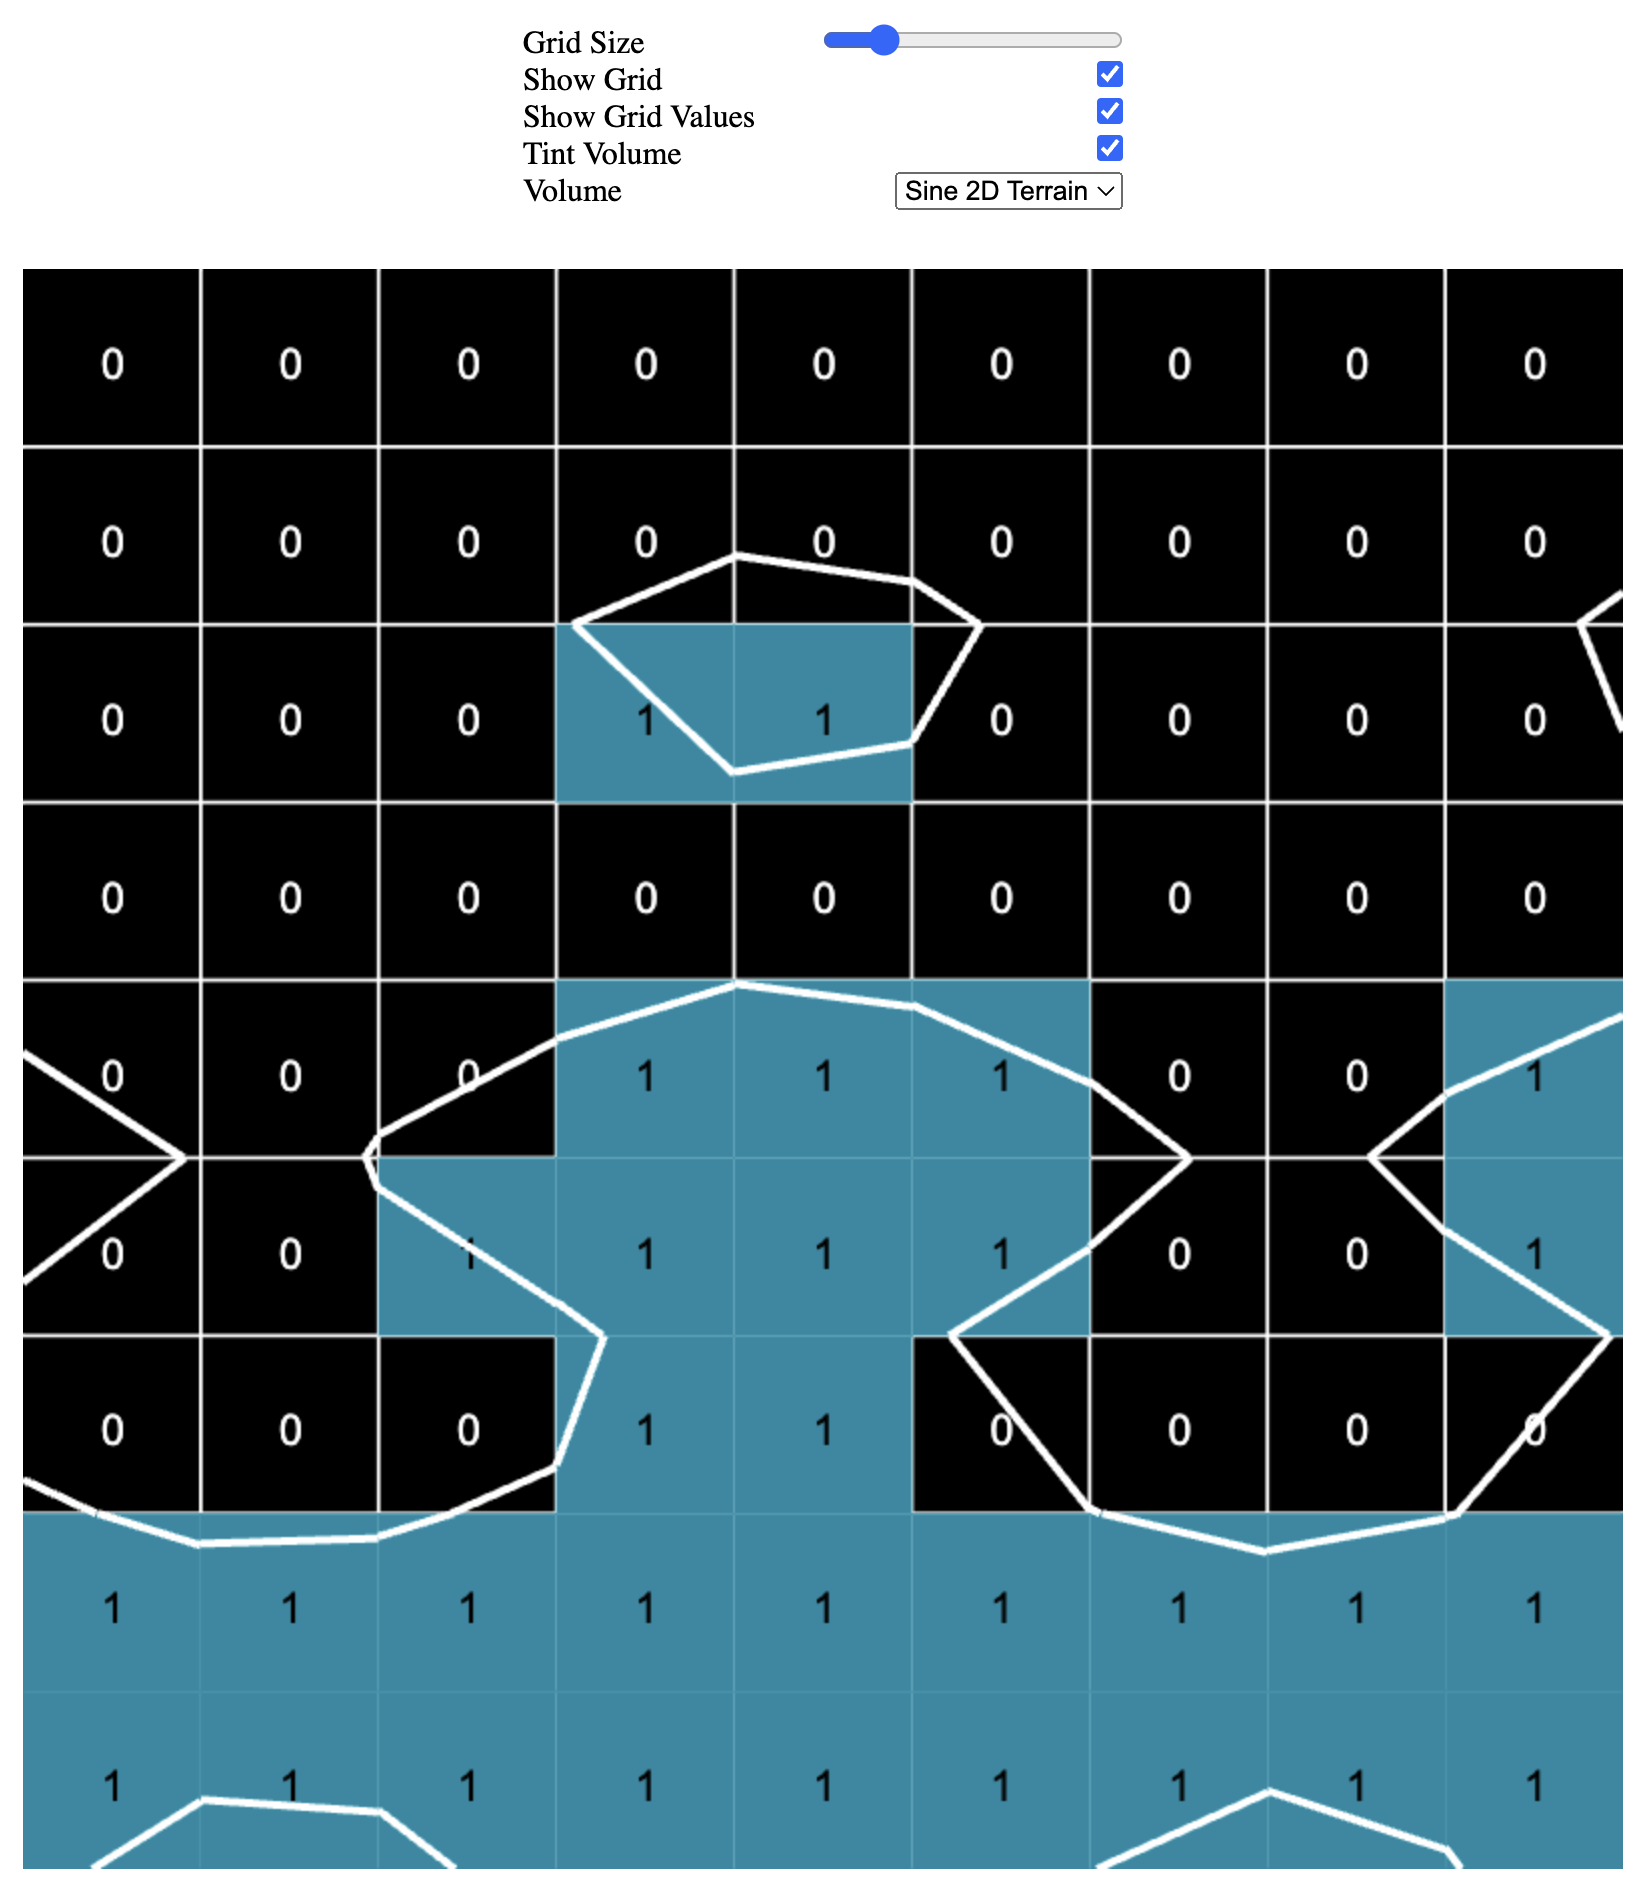
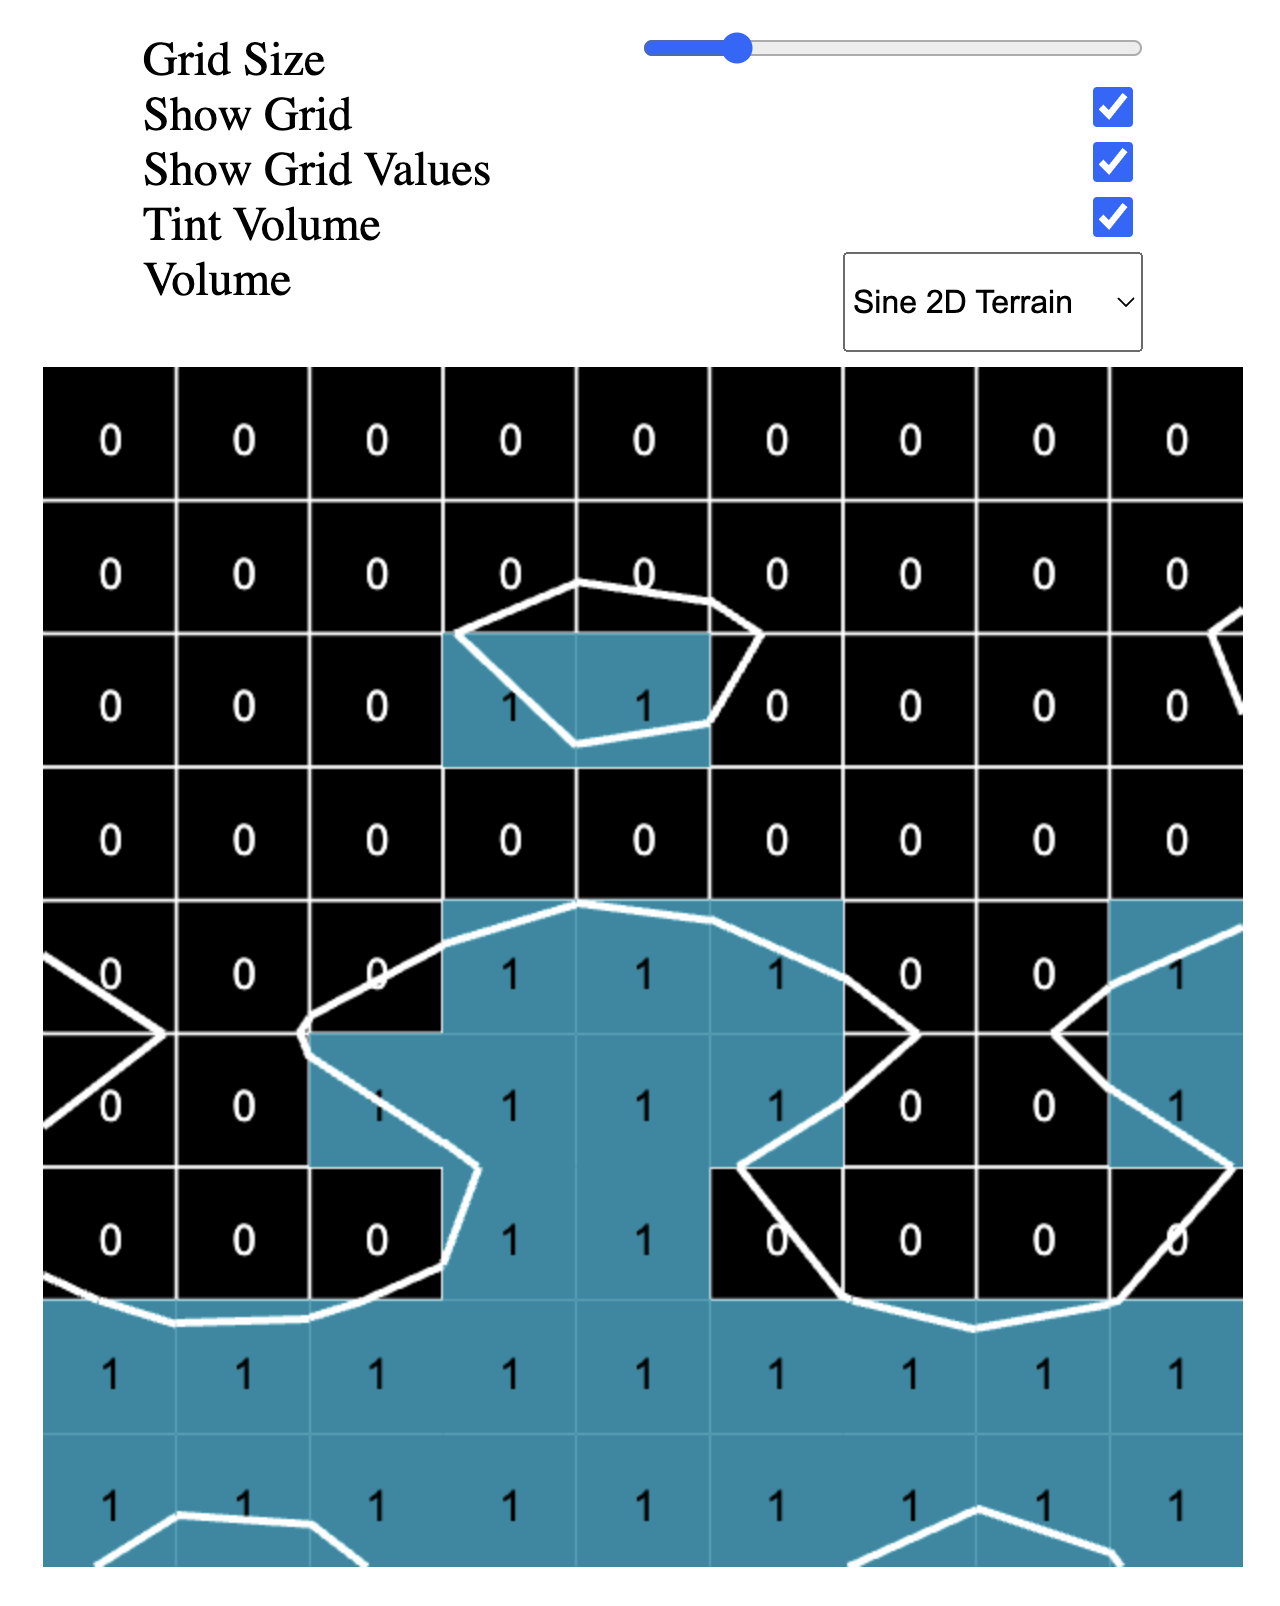
improve ui scaling

diff --git a/index.css b/index.css
@@ -14,8 +14,21 @@ html, body, * {
     display: block;
     margin: 30px auto;
     list-style-type: none;
-    max-width: 300px;
+    max-width: 500px;
+    font-size: 24px;
 }
+
+#options input[type="checkbox"] {
+    width: 30px;
+    height: 20px;
+}
+
+#options select {
+    width: 150px;
+    height: 50px;
+    font-size: 16px;
+}
+
 
 #options input[type="checkbox"], #options select {
     float: right;   

diff --git a/index.html b/index.html
@@ -20,6 +20,6 @@
             <option>Square</option>
         </select></li>
     </ul>
-    <canvas id="screen" width="800" height="800"></canvas>
+    <canvas id="screen" width="600" height="600"></canvas>
 </body>
 </html>
